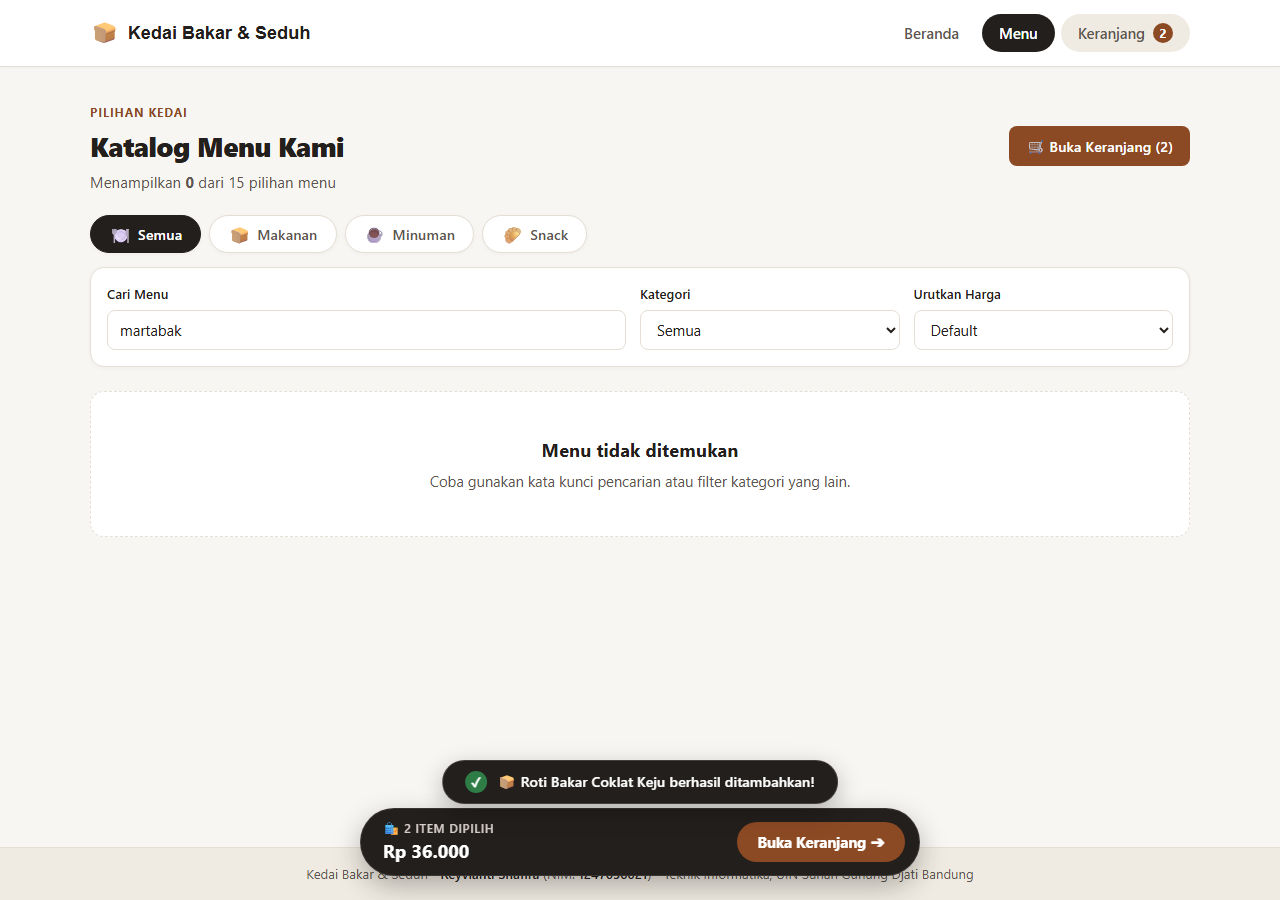
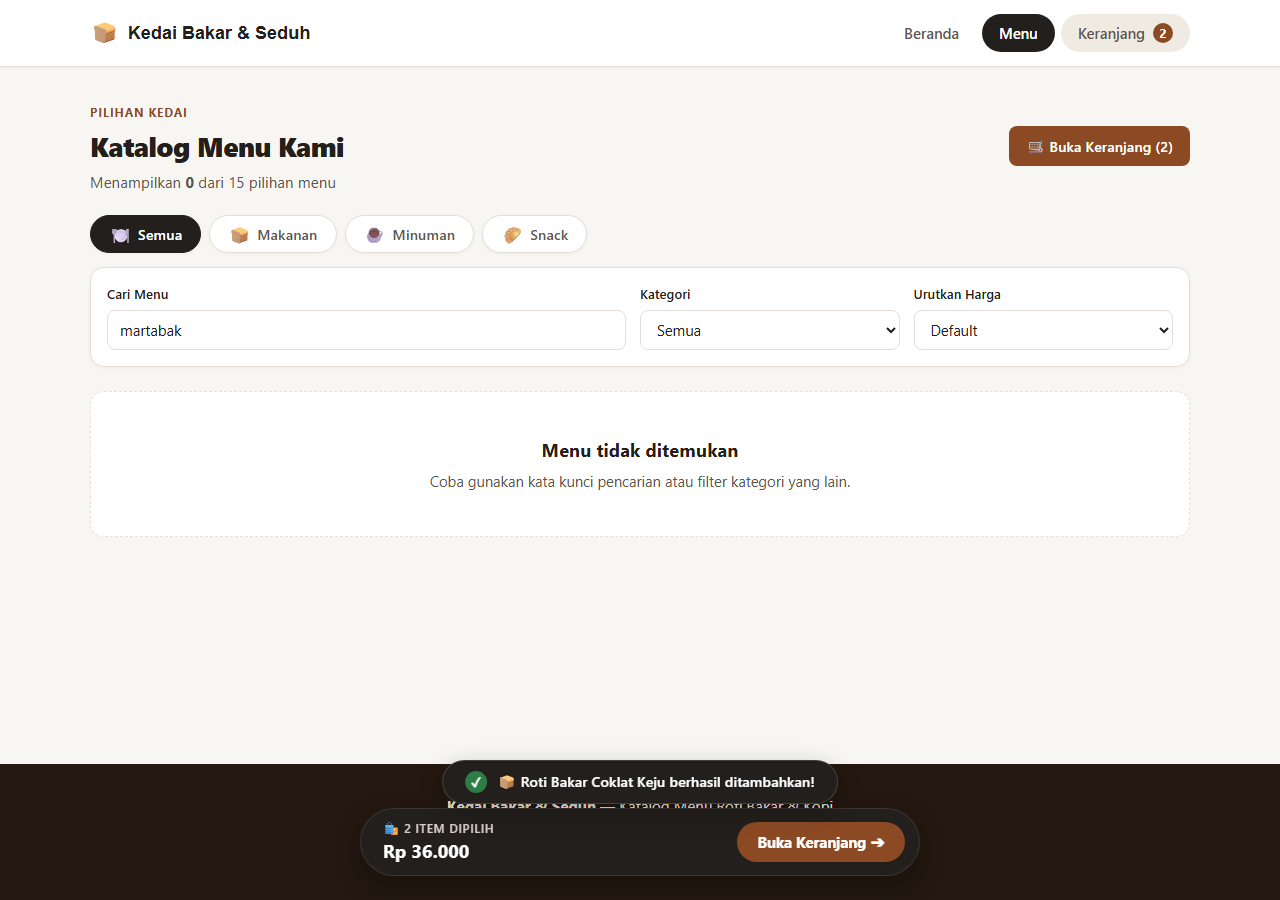
feat: tampilkan kembali Tentang Kedai, Identitas Pengembang, dan Footer dark aesthetic

Changed region(s): [[0.0, 0.84, 1.0, 1.0]]

diff --git a/src/index.css b/src/index.css
@@ -969,24 +969,135 @@ main {
 }
 
 /* ========================================================
-   SITE FOOTER (Subtle & Clean)
+   ABOUT CARD & IDENTITAS PENGEMBANG
    ======================================================== */
-.site-footer {
-  background-color: var(--bg-subtle);
-  border-top: 1px solid var(--border-light);
-  padding: 16px 0;
-  text-align: center;
-  margin-top: auto;
+.about-container {
+  margin-top: 36px;
+  margin-bottom: 20px;
 }
 
-.footer-text {
+.about-card {
+  background-color: var(--bg-surface);
+  border: 1px solid var(--border-card);
+  border-radius: var(--radius-lg);
+  padding: 24px;
+  box-shadow: var(--shadow-card);
+  display: grid;
+  grid-template-columns: 1fr;
+  gap: 22px;
+}
+
+@media (min-width: 768px) {
+  .about-card {
+    grid-template-columns: 1.4fr 1fr;
+    padding: 30px;
+    gap: 32px;
+  }
+}
+
+.about-info h2 {
+  margin-top: 0;
+  margin-bottom: 12px;
+  font-size: 1.35rem;
+  font-weight: 800;
+  color: var(--text-main);
+  letter-spacing: -0.02em;
+}
+
+.about-info p {
+  margin: 0 0 12px;
+  color: var(--text-muted);
+  line-height: 1.6;
+  font-size: 0.95rem;
+}
+
+.about-profile {
+  background-color: #faf6f0;
+  border: 1px solid #ebdcd0;
+  border-radius: var(--radius-md);
+  padding: 18px 20px;
+  align-self: center;
+}
+
+.about-profile h3 {
+  margin-top: 0;
+  margin-bottom: 12px;
+  font-size: 1.08rem;
+  font-weight: 800;
+  color: var(--text-main);
+  letter-spacing: -0.01em;
+}
+
+.about-profile ul {
+  list-style: none;
+  padding: 0;
+  margin: 0;
+  display: flex;
+  flex-direction: column;
+  gap: 8px;
+  font-size: 0.92rem;
+}
+
+.about-profile li {
+  display: flex;
+  flex-direction: column;
+  gap: 2px;
+  color: var(--text-main);
+}
+
+@media (min-width: 480px) {
+  .about-profile li {
+    flex-direction: row;
+    gap: 6px;
+  }
+}
+
+.about-profile li span {
+  color: var(--text-muted);
+  min-width: 105px;
+}
+
+.about-profile li strong {
+  color: var(--text-main);
+  font-weight: 700;
+}
+
+/* ========================================================
+   SITE FOOTER (Dark Roasted Coffee / Warm Chestnut)
+   ======================================================== */
+.footer-dark {
+  background-color: #241810;
+  color: #f7efe7;
+  padding: 30px 0;
+  margin-top: auto;
+  text-align: center;
+}
+
+.footer-dark-inner {
+  display: flex;
+  flex-direction: column;
+  gap: 6px;
+}
+
+.footer-dark-brand {
+  margin: 0;
+  font-size: 0.96rem;
+  color: #f7efe7;
+  letter-spacing: -0.01em;
+}
+
+.footer-dark-author {
+  margin: 0;
+  font-size: 0.88rem;
+  color: #ebdcd0;
+}
+
+.footer-dark-author strong {
+  color: #ffffff;
+}
+
+.footer-dark-campus {
   margin: 0;
   font-size: 0.82rem;
-  color: var(--text-muted);
-  line-height: 1.5;
-}
-
-.footer-text strong {
-  color: var(--text-main);
-  font-weight: 600;
+  color: #baab9e;
 }

diff --git a/src/App.jsx b/src/App.jsx
@@ -183,6 +183,44 @@ function App() {
                 </div>
               </div>
             </div>
+
+            {/* Bagian Tentang Kedai & Identitas Pengembang (Sesuai Ketentuan Tugas) */}
+            <div className="container about-container">
+              <div className="about-card">
+                <div className="about-info">
+                  <h2>Tentang Kedai Bakar &amp; Seduh</h2>
+                  <p>
+                    <strong>Kedai Bakar &amp; Seduh</strong> adalah kedai roti bakar
+                    dan kopi fiktif yang menghadirkan suasana santai dengan menu
+                    andalan roti panggang klasik, kopi susu gula aren, serta
+                    camilan hangat yang ramah di kantong mahasiswa.
+                  </p>
+                  <p>
+                    Aplikasi katalog menu interaktif ini dikembangkan menggunakan
+                    React dan Vite untuk memenuhi tugas mata kuliah{' '}
+                    <em>Component-Based UI Development</em>.
+                  </p>
+                </div>
+
+                <div className="about-profile">
+                  <h3>Identitas Pengembang</h3>
+                  <ul>
+                    <li>
+                      <span>Nama:</span> <strong>Reyvianti Shafira</strong>
+                    </li>
+                    <li>
+                      <span>NIM:</span> <strong>1247050021</strong>
+                    </li>
+                    <li>
+                      <span>Program Studi:</span>{' '}
+                      <strong>
+                        Teknik Informatika, UIN Sunan Gunung Djati Bandung
+                      </strong>
+                    </li>
+                  </ul>
+                </div>
+              </div>
+            </div>
           </section>
         )}
 

diff --git a/src/components/Footer.jsx b/src/components/Footer.jsx
@@ -1,10 +1,16 @@
-// Komponen Footer untuk menampilkan identitas mahasiswa
+// Komponen Footer untuk menampilkan identitas pengembang dan aplikasi sesuai ketentuan tugas
 function Footer() {
   return (
-    <footer className="site-footer">
-      <div className="container footer-content">
-        <p className="footer-text">
-          Kedai Bakar &amp; Seduh &bull; <strong>Reyvianti Shafira</strong> (NIM: <strong>1247050021</strong>) &bull; Teknik Informatika, UIN Sunan Gunung Djati Bandung
+    <footer className="footer-dark">
+      <div className="container footer-dark-inner">
+        <p className="footer-dark-brand">
+          <strong>Kedai Bakar &amp; Seduh</strong> &mdash; Katalog Menu Roti Bakar &amp; Kopi
+        </p>
+        <p className="footer-dark-author">
+          Dibuat oleh <strong>Reyvianti Shafira</strong> (NIM: <strong>1247050021</strong>)
+        </p>
+        <p className="footer-dark-campus">
+          Teknik Informatika, UIN Sunan Gunung Djati Bandung &bull; 2026
         </p>
       </div>
     </footer>
